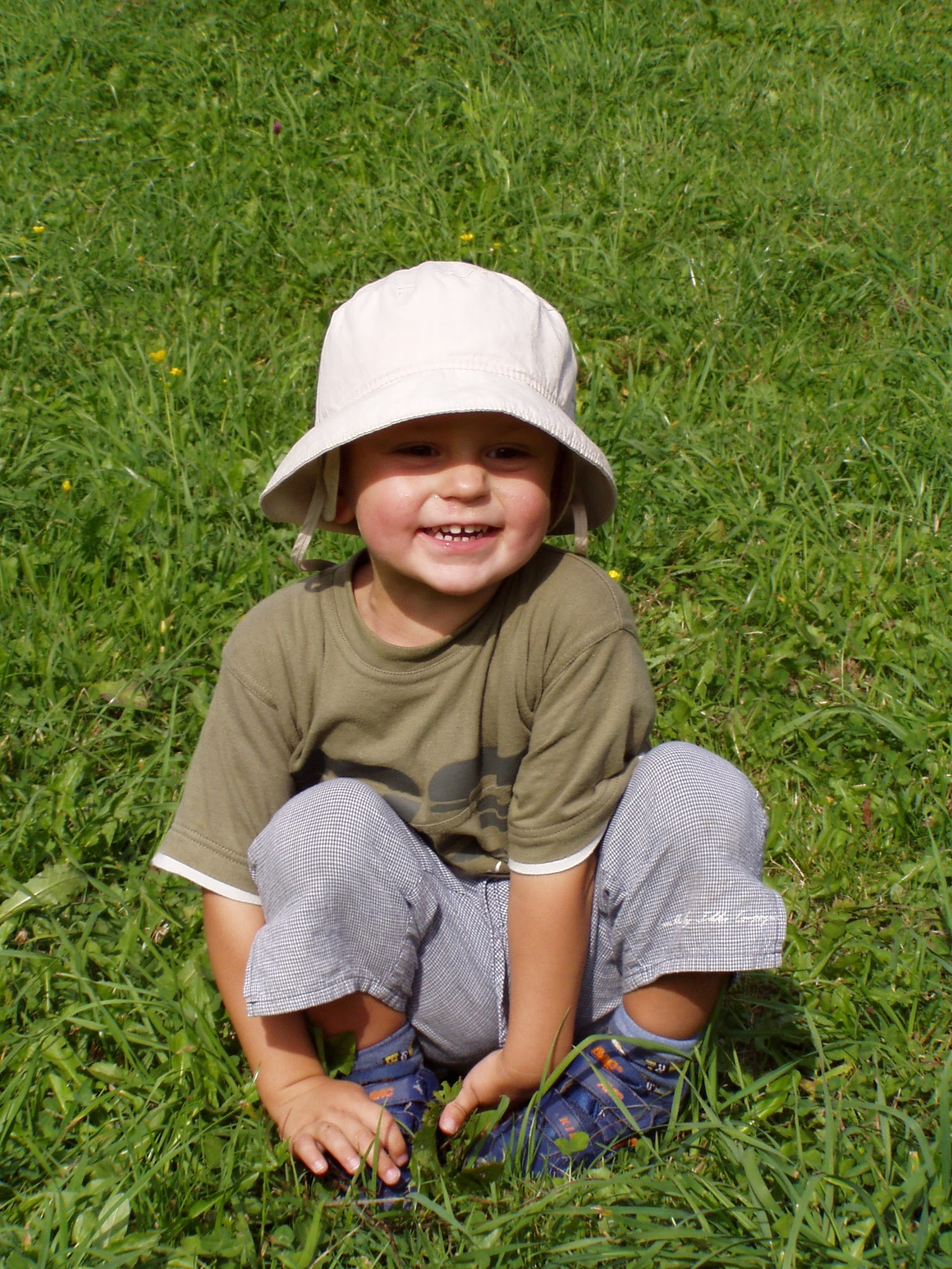
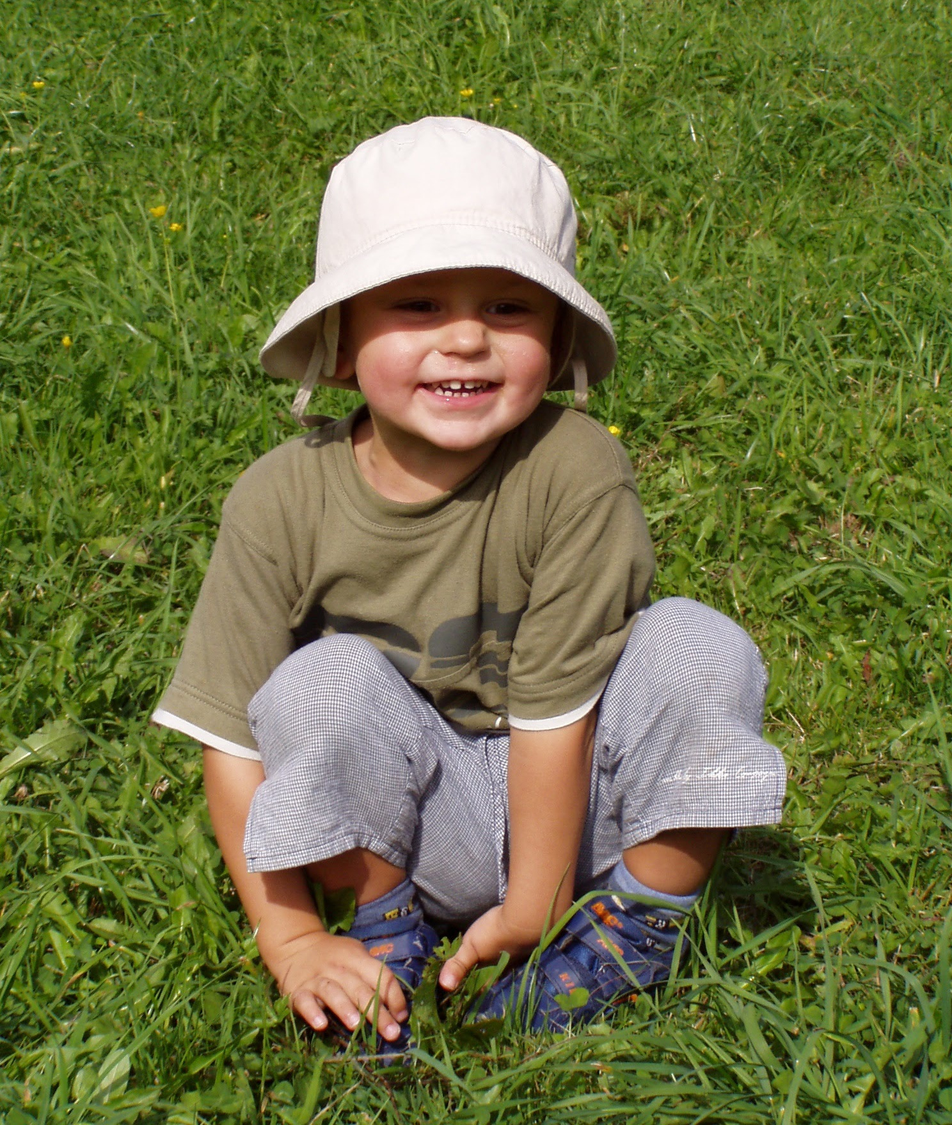
changed image size and updated css

diff --git a/team.html b/team.html
@@ -32,21 +32,27 @@
 
         <div class="team-images-row">
             <div class="team-images-column">
-                <img src="images/Sarah-Baby-cropped.JPG" alt="Sarah">
+                <div class="image-container">
+                    <img src="images/Sarah-Baby-cropped.JPG" alt="Sarah">
+                </div>
                 <ul>
                     <li><b>Name: </b>Sarah</li>
                     <li><b>Alter: </b>35 Jahre</li>
                 </ul>
             </div>
             <div class="team-images-column">
-                <img src="images/Manuel-Baby.JPG" alt="Manuel">
+                <div class="image-container">
+                    <img src="images/Manuel-Baby.JPG" alt="Manuel">
+                </div>
                 <ul>
                     <li><b>Name: </b>Manuel</li>
                     <li><b>Alter: </b>21 Jahre</li>
                 </ul>
             </div>
             <div class="team-images-column">
-                <img src="images/Lea-Baby.jpg" alt="Lea">
+                <div class="image-container">
+                    <img src="images/Lea-Baby.jpg" alt="Lea">
+                </div>
                 <ul>
                     <li><b>Name: </b>Lea</li>
                     <li><b>Alter: </b>24 Jahre</li>

diff --git a/video.js b/video.js
@@ -13,13 +13,13 @@ function addBox(building, container, start) {
     const keyframes = `
         @keyframes moveContainer_${building.buildingId} {
             0% {
-                left: ${building.positionStart.x}px;
+                left: ${building.positionStart.x+50}px;
                 top: ${building.positionStart.y}px;
                 width: ${building.positionStart.width}px;
                 height: ${building.positionStart.height}px;
             }
             100% {
-                left: ${building.positionEnd.x}px;
+                left: ${building.positionEnd.x+50}px;
                 top: ${building.positionEnd.y}px;
                 width: ${building.positionEnd.width}px;
                 height: ${building.positionEnd.height}px;

diff --git a/video-page-style.css b/video-page-style.css
@@ -1,7 +1,7 @@
 div.video-page-title {
 	position: relative;
     margin-top: 25px;
-    margin-left: 2%;
+    margin-left: 5%;
     margin-right: 45%;
     text-overflow: hidden;
     text-overflow: ellipsis;
@@ -17,9 +17,9 @@ div.video-page-table {
     display: flex;
 	position: relative;
 	margin-top: 0px;
-	margin-left: 2%;
+	margin-left: 5%;
 	margin-right: 2%;
-	width: 96%;
+	width: 93%;
     justify-content: space-between;
     overflow: hidden;
 }
@@ -37,7 +37,7 @@ div.video-page-table .text-column {
 }
 
 div.infobox {
-    max-width: 70%;
+    max-width: 80%;
     max-height: 400px;
     overflow-y: auto;
 }

diff --git a/team-page-style.css b/team-page-style.css
@@ -1,5 +1,5 @@
 div.team-page-text {
-    margin-top: 100px;
+    margin-top: 25px;
     margin-left: 5%;
     margin-right: 45%;
 }
@@ -8,12 +8,19 @@ div.team-images-column {
     margin-left: 5%;
     float: left;
     width: 20%;
-    height: auto;
+}
+
+div.image-container {
+    margin-bottom: 10%;
+    height: 360px;
+    overflow: hidden;
+    object-fit: contain;
 }
 
 div.team-images-column img {
-    width: 100%;
-    margin-bottom: 10%;
+   height: 100%;
+   width: 100%;
+   object-fit: cover;
 }
 
 div.team-images-column ul {

diff --git a/style.css b/style.css
@@ -6,7 +6,7 @@
 }
 
 div.welcome-page-text {
-    margin-top: 100px;
+    margin-top: 25px;
     margin-left: 5%;
     margin-right: 45%;
 }
